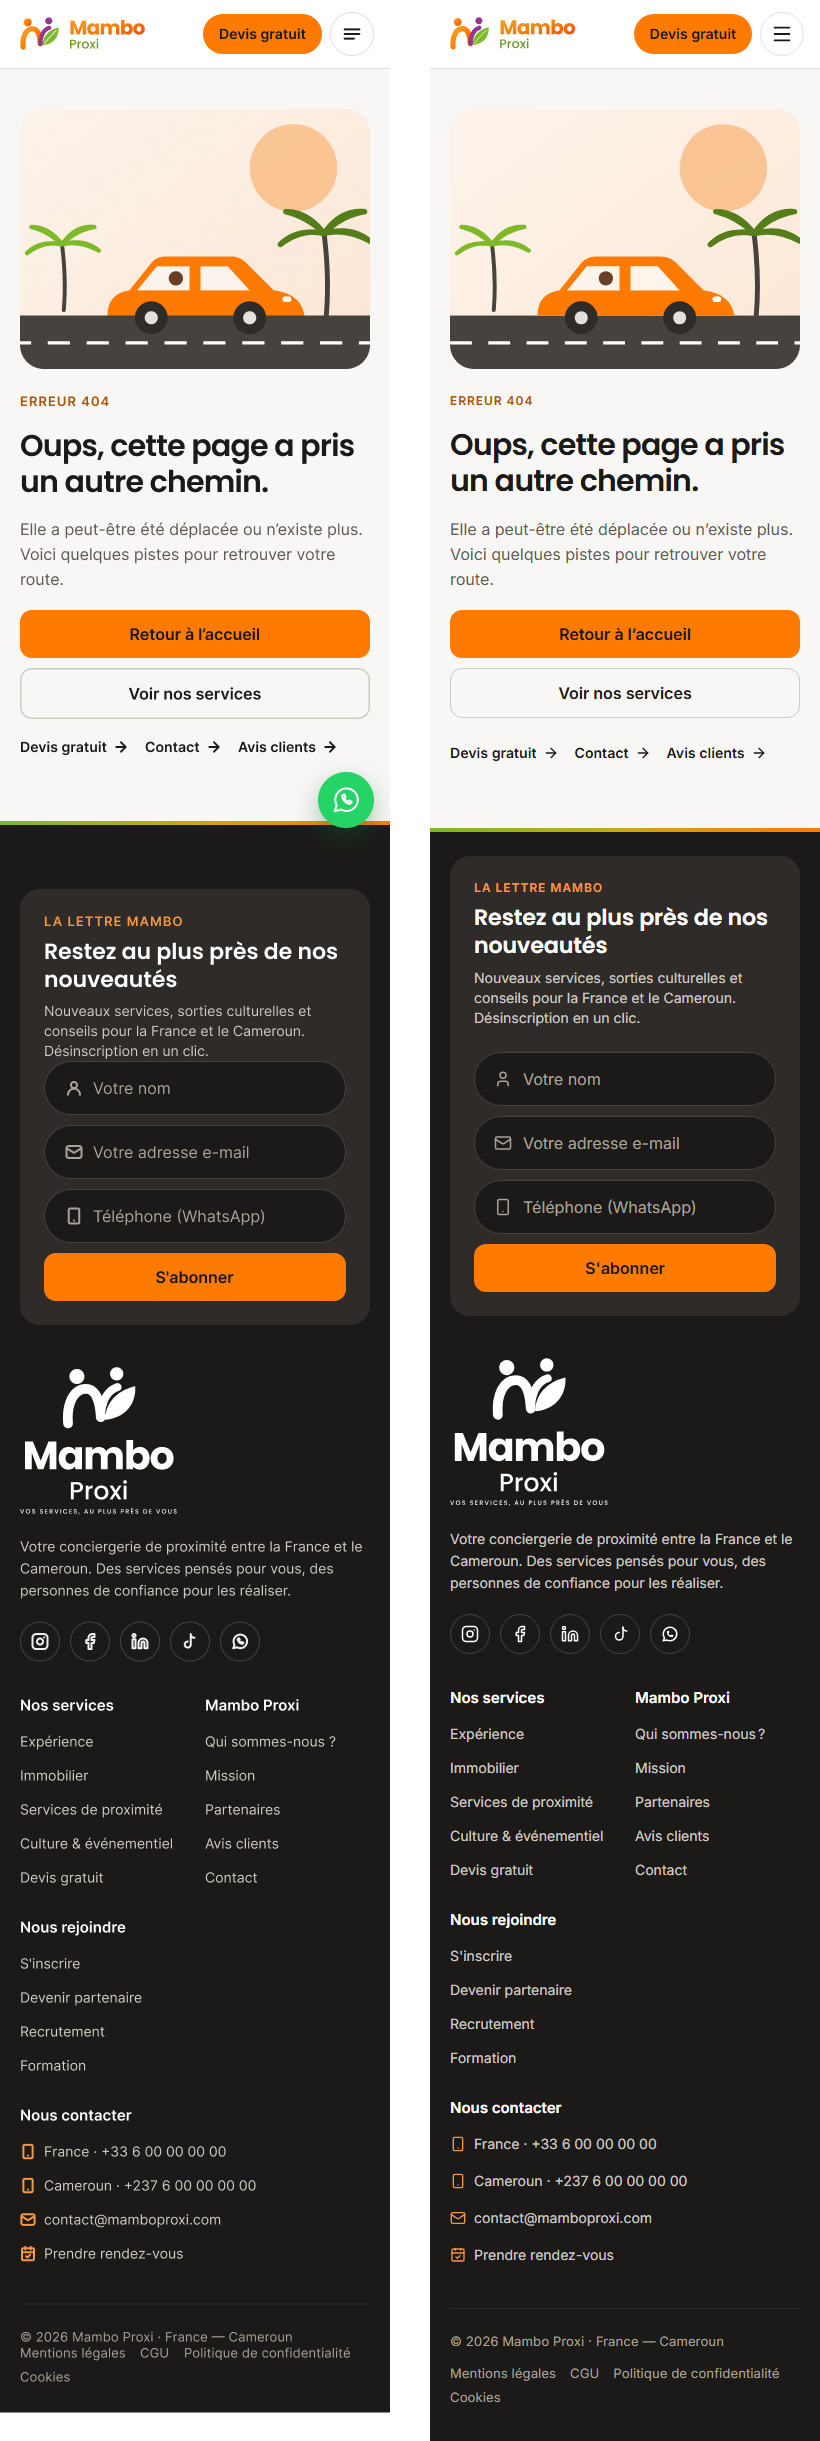
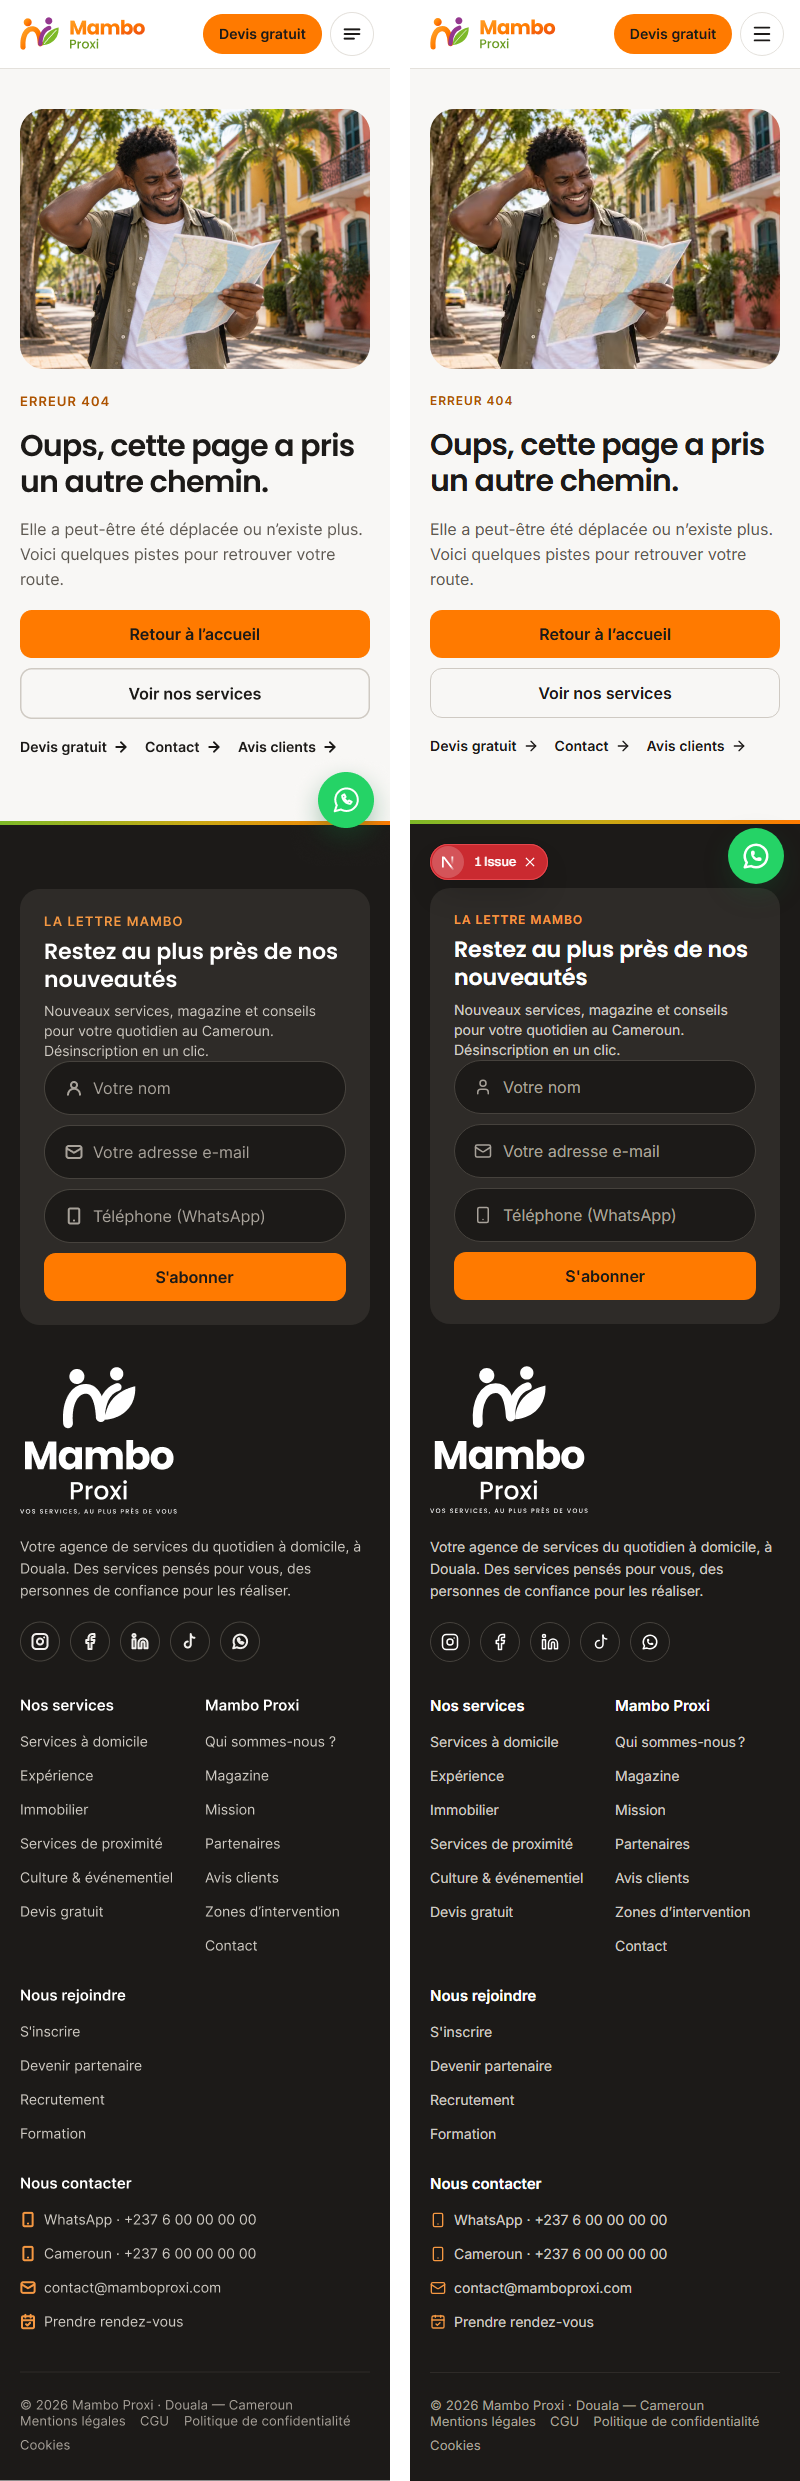
feat(erreurs): photo de la 404, liens utiles recalés, textes de la 404 et de l'erreur 500 traduits

Changed region(s): [[0.0, 0.0, 1.0, 1.0]]

diff --git a/src/components/sections/errors/error-panel.tsx b/src/components/sections/errors/error-panel.tsx
@@ -1,16 +1,18 @@
 import { ArrowRight } from 'lucide-react';
 import type { Route } from 'next';
+import Image from 'next/image';
+import { useTranslations } from 'next-intl';
 import { SiteLink as Link } from '@/i18n/site-link';
 import type { ReactNode } from 'react';
 import { frenchTypography } from '@/lib/format/typography';
 import { routes } from '@/lib/routes';
 import { CarScene } from './car-scene';
 
-/** Liens utiles sous les actions (maquette 404 : Devis gratuit, Contact, Avis clients). */
-const USEFUL_LINKS: ReadonlyArray<{ label: string; href: Route }> = [
-  { label: 'Devis gratuit', href: routes.devis },
-  { label: 'Contact', href: routes.contact },
-  { label: 'Avis clients', href: '/avis-clients' as Route },
+/** Liens utiles sous les actions (maquette 404 : Devis gratuit, Contact, Avis clients), dans `errors.links`. */
+const USEFUL_LINKS: ReadonlyArray<{ key: 'quote' | 'contact' | 'reviews'; href: Route }> = [
+  { key: 'quote', href: routes.devis },
+  { key: 'contact', href: routes.contact },
+  { key: 'reviews', href: '/avis-clients' as Route },
 ];
 
 type ErrorPanelProps = {
@@ -20,19 +22,33 @@ type ErrorPanelProps = {
   /** Boutons (404 : accueil et services ; 500 : réessayer). */
   actions: ReactNode;
   showLinks?: boolean;
+  /** Photo de la maquette (404 : `page404`) ; sans photo, scène « voiture » animée (500, maintenance). */
+  photo?: string;
 };
 
 /**
- * Gabarit des pages d'erreur (404 `83:9961`, mobile `83:10230`) : fond `neutral/50`, scène « voiture » animée
- * (560 × 420, rayon 32 ; 350 × 260 au-dessus du texte en mobile), sur-titre, titre 52/58, texte 19/30, actions
+ * Gabarit des pages d'erreur (404 `83:9961`, mobile `83:10230`) : fond `neutral/50`, photo ou scène « voiture »
+ * animée (560 × 420, rayon 32 ; 350 × 260 au-dessus du texte en mobile), sur-titre, titre 52/58, texte 19/30, actions
  * et liens utiles. Repris pour l'erreur 500 et la maintenance.
  */
-export function ErrorPanel({ eyebrow, title, text, actions, showLinks = true }: ErrorPanelProps) {
+export function ErrorPanel({ eyebrow, title, text, actions, showLinks = true, photo }: ErrorPanelProps) {
+  const t = useTranslations('errors');
   return (
     <section className="bg-neutral-50">
       <div className="container-site grid items-center gap-6 pt-10 pb-16 xl:grid-cols-[560px_minmax(0,1fr)] xl:gap-[72px] xl:pt-24 xl:pb-32">
-        <div className="h-[260px] overflow-hidden rounded-3xl md:h-[360px] xl:h-[420px] xl:rounded-[32px]">
-          <CarScene className="size-full" />
+        <div className="relative h-[260px] overflow-hidden rounded-3xl md:h-[360px] xl:h-[420px] xl:rounded-[32px]">
+          {photo ? (
+            <Image
+              src={photo}
+              alt=""
+              fill
+              priority
+              sizes="(min-width: 1280px) 560px, 100vw"
+              className="object-cover"
+            />
+          ) : (
+            <CarScene className="size-full" />
+          )}
         </div>
         <div className="flex flex-col gap-[18px]">
           <p className="text-web-eyebrow">{eyebrow}</p>
@@ -44,14 +60,14 @@ export function ErrorPanel({ eyebrow, title, text, actions, showLinks = true }: 
           </p>
           <div className="flex flex-col gap-2.5 md:flex-row">{actions}</div>
           {showLinks && (
-            <ul className="flex flex-wrap gap-4 pt-1">
+            <ul className="flex flex-wrap gap-4">
               {USEFUL_LINKS.map((link) => (
-                <li key={link.href}>
+                <li key={link.href} className="flex">
                   <Link
                     href={link.href}
                     className="group/link inline-flex items-center gap-1.5 rounded-xs font-ui text-[14px] leading-5 font-semibold tracking-[0.005em] text-text-main"
                   >
-                    {link.label}
+                    {t(`links.${link.key}`)}
                     <ArrowRight
                       aria-hidden
                       size={16}

diff --git a/src/components/sections/errors/not-found-content.tsx b/src/components/sections/errors/not-found-content.tsx
@@ -1,4 +1,5 @@
 import type { Route } from 'next';
+import { useTranslations } from 'next-intl';
 import { SiteLink as Link } from '@/i18n/site-link';
 import { buttonVariants } from '@/components/ui/button';
 import { routes } from '@/lib/routes';
@@ -6,18 +7,20 @@ import { ErrorPanel } from './error-panel';
 
 /** Contenu de la page 404, partagé par les pages introuvables du site et les adresses inconnues. */
 export function NotFoundContent() {
+  const t = useTranslations('errors');
   return (
     <ErrorPanel
-      eyebrow="Erreur 404"
-      title="Oups, cette page a pris un autre chemin."
-      text="Elle a peut-être été déplacée ou n’existe plus. Voici quelques pistes pour retrouver votre route."
+      eyebrow={t('notFound.eyebrow')}
+      title={t('notFound.title')}
+      text={t('notFound.text')}
+      photo="/photos/page404.png"
       actions={
         <>
           <Link href={routes.home} className={buttonVariants()}>
-            Retour à l’accueil
+            {t('home')}
           </Link>
           <Link href={'/services' as Route} className={buttonVariants({ variant: 'outline' })}>
-            Voir nos services
+            {t('notFound.services')}
           </Link>
         </>
       }

diff --git a/src/app/[locale]/(site)/error.tsx b/src/app/[locale]/(site)/error.tsx
@@ -1,5 +1,6 @@
 'use client';
 
+import { useTranslations } from 'next-intl';
 import { SiteLink as Link } from '@/i18n/site-link';
 import { useEffect } from 'react';
 import { ErrorPanel } from '@/components/sections/errors/error-panel';
@@ -14,20 +15,21 @@ export default function SiteError({
   error: Error & { digest?: string };
   reset: () => void;
 }) {
+  const t = useTranslations('errors');
   useEffect(() => {
     console.error(error);
   }, [error]);
 
   return (
     <ErrorPanel
-      eyebrow="Erreur 500"
-      title="Un imprévu sur la route."
-      text="Une erreur est survenue de notre côté. Réessayez dans quelques instants ; si le problème continue, contactez-nous."
+      eyebrow={t('error.eyebrow')}
+      title={t('error.title')}
+      text={t('error.text')}
       actions={
         <>
-          <Button onClick={() => reset()}>Réessayer</Button>
+          <Button onClick={() => reset()}>{t('error.retry')}</Button>
           <Link href={routes.home} className={buttonVariants({ variant: 'outline' })}>
-            Retour à l’accueil
+            {t('home')}
           </Link>
         </>
       }
